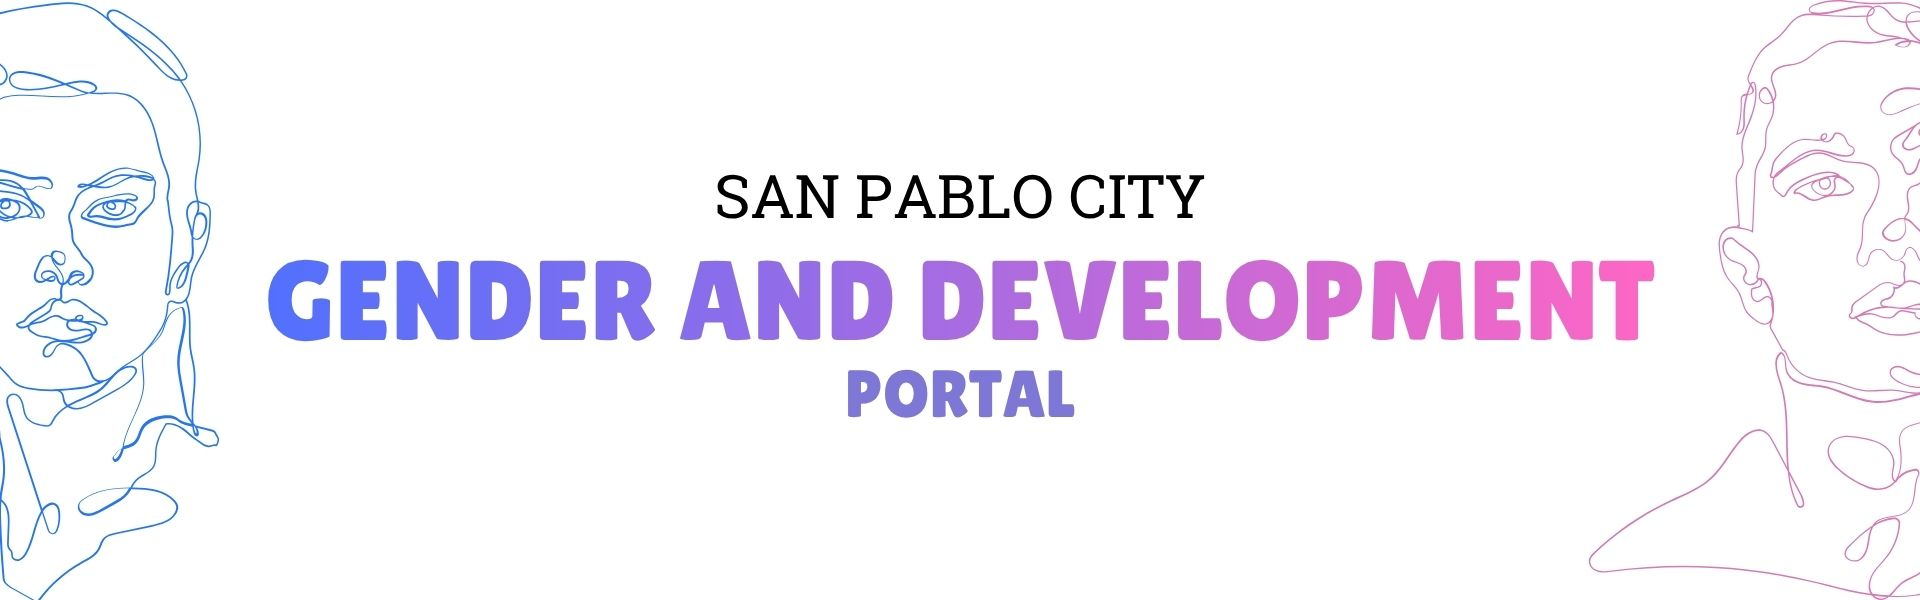
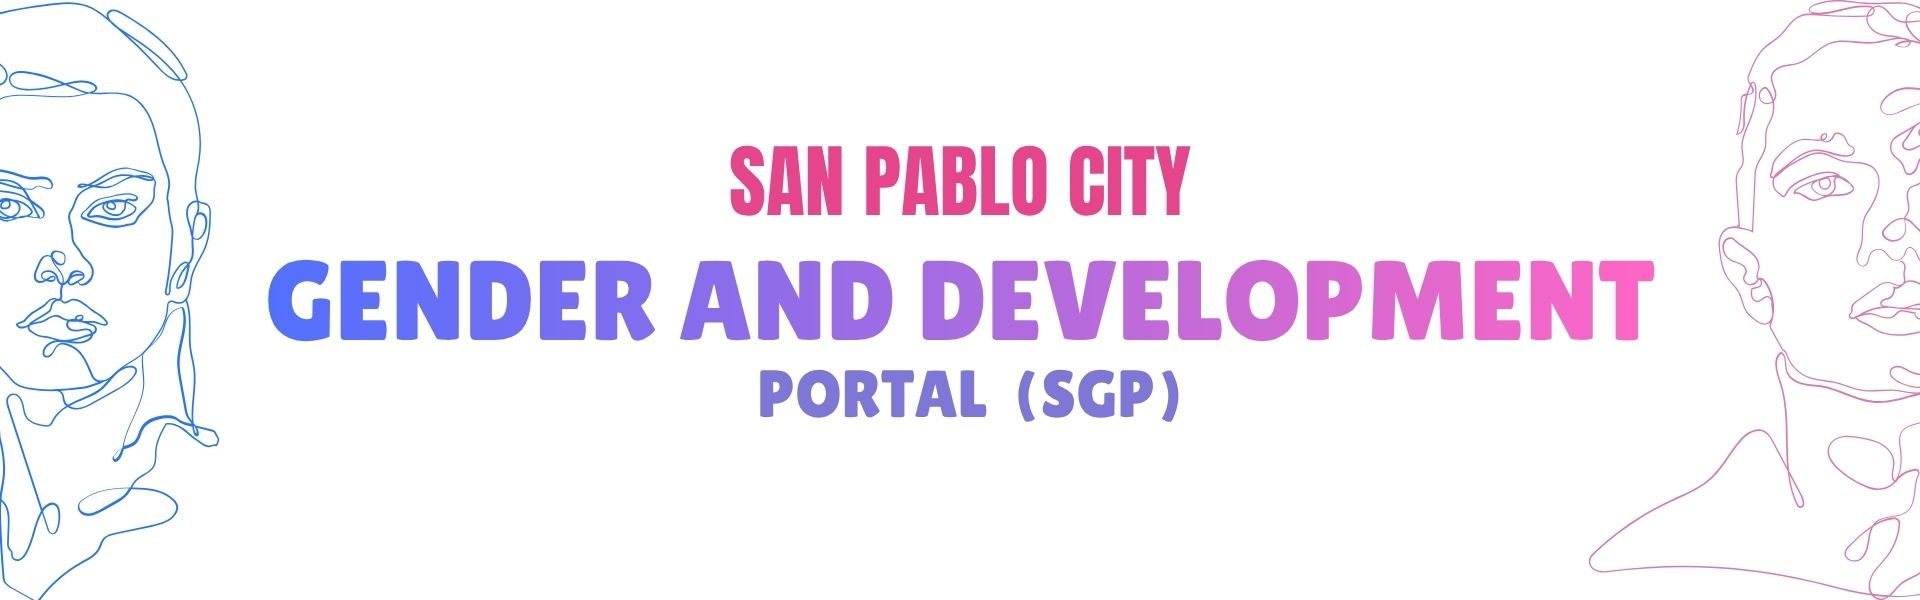
update nov12

Changed region(s): [[0.375, 0.24, 0.625, 0.36], [0.375, 0.6, 0.625, 0.72]]

diff --git a/src/App.jsx b/src/App.jsx
@@ -48,11 +48,28 @@ function App() {
       <div id="about" className="pt-10">
         {/* <!-- GENDER AND DEVELOPMENT w/ about us --> */}
         <div>
-          <h2 className="text-4xl font-bold text-center">
+          {/* <h2 className="text-4xl font-bold text-center">
             GENDER AND DEVELOPMENT
-          </h2>
+          </h2> */}
+          <div>
+            <span className="text-lg  text-gray-900 flex justify-center items-center">
+              {/* <hr className="md:w-40 text-purple-500" /> */}
+              <p className=" font-bold">SAN PABLO CITY</p>
+              {/* <hr className="md:w-40 text-purple-500" /> */}
+            </span>
+            <h2 className="text-4xl font-bold text-center">
+              GENDER AND DEVELOPMENT
+            </h2>
+          </div>
+          <span className="text-base  text-gray-800 flex justify-center items-center">
+            {/* <hr className="md:w-45 text-purple-500" /> */}
+            <p className="mx-1 font-bold">
+              Portal <span>(SGP)</span>{" "}
+            </p>
+            {/* <hr className="md:w-45 text-purple-500" /> */}
+          </span>
           <div className="text-center pt-4">
-            <h3 className="text-base text-[#7F77D8] font-bold">ABOUT US</h3>
+            <h3 className="text-xl text-[#7F77D8] font-bold">ABOUT US</h3>
             <p className="text-gray-600 mx-10 md:mx-90">
               As for the Executive 2025—Reconstitution of the Gender and
               Development (GAD) of the City of San Pablo
@@ -64,10 +81,10 @@ function App() {
           {/* <!-- Mission Card --> */}
           <div className="bg-white hover:bg-purple-200 border border-gray-300 p-6 rounded-lg transition-all duration-300 cursor-pointer shadow-lg ml-4 my-4 md:m-5">
             <div className="flex flex-col items-center space-x-4">
-              <div className="bg-purple-50 p-4 rounded-full">
+              <div className="bg-white p-4 rounded-full border border-purple-400 shadow-md filter drop-shadow-[0_0_0.25rem_#7F77D8]">
                 {/* <!-- Mission Icon --> */}
                 <svg
-                  className="w-6 h-6 text-purple-600"
+                  className="w-6 h-6 text-purple-600 "
                   fill="none"
                   stroke="currentColor"
                   viewBox="0 0 24 24"
@@ -101,7 +118,7 @@ function App() {
           {/* <!-- Vision Card --> */}
           <div className="bg-white hover:bg-purple-200 p-6 border border-gray-300 rounded-lg   transition-all duration-300 cursor-pointer shadow-lg m-4 md:m-5">
             <div className="flex flex-col items-center space-x-4">
-              <div className="bg-purple-50 p-4 rounded-full ml-2">
+              <div className="bg-white p-4 rounded-full border border-purple-400 shadow-md filter drop-shadow-[0_0_0.25rem_#7F77D8]">
                 {/* <!-- Vision Icon --> */}
                 <svg
                   xmlns="http://www.w3.org/2000/svg"
@@ -217,7 +234,7 @@ function App() {
         className="bg-blue-200 p-6 mb-5 rounded-lg shadow-lg m-4 md:mx-10"
       >
         <div className="flex flex-col items-center space-x-4">
-          <div className="bg-blue-50 p-4 rounded-full">
+          <div className="bg-white p-4 rounded-full border border-blue-400 shadow-md filter drop-shadow-[0_0_0.25rem_#2575fc]">
             <svg
               xmlns="http://www.w3.org/2000/svg"
               fill="none"
@@ -238,15 +255,15 @@ function App() {
               DEFINITION OF TERMS
             </h1>
             <span className="text-gray-600 text-justify">
-              Gender and Development (GAD) – Refers to the development
-              perspective and process....
+              <span className="font-bold">"SGP"</span> also known as the San
+              Pablo City Gender and Development (GAD) Portal
             </span>
 
             <div className="mt-2 flex justify-center">
               {/* Trigger SEE MORE Button */}
               <button
                 onClick={toggleModal}
-                className="border border-[#2575fc] flex items-center gap-2 text-[#2575fc] hover:text-white text-base font-medium bg-white hover:bg-blue-300 transition-all duration-300 shadow-xl  px-15 md:px-25 py-2 rounded-md cursor-pointer"
+                className="border border-[#2575fc] flex items-center gap-2 text-[#2575fc] hover:text-white text-base font-medium bg-white hover:bg-blue-300 transition-all duration-300 border-blue-600 shadow-md shadow-blue-600 px-15 md:px-25 py-2 rounded-md cursor-pointer"
               >
                 See More
               </button>
@@ -273,6 +290,10 @@ function App() {
 
             {/* Content */}
             <div className="p-6 space-y-4 text-gray-800 leading-relaxed">
+              <p className="text-gray-900 text-justify text-2xl">
+                <span className="font-bold text-[#2575fc]">"SGP"</span> also
+                known as the San Pablo City Gender and Development (GAD) Portal
+              </p>
               <p>
                 <span className="font-semibold text-lg text-[#2575fc]">
                   Gender and Development (GAD)
@@ -282,6 +303,7 @@ function App() {
                 violence, respectful of human rights, supportive of
                 self-determination and actualization of human potential.
               </p>
+
               <p>
                 <span className="font-semibold text-lg text-[#2575fc]">
                   Gender Analysis
@@ -476,7 +498,7 @@ function App() {
       </button>
 
       {/* FOOTER */}
-      <footer className="bg-gradient-to-l from-[#DA78B5] to-[#2575fc] text-white">
+      <footer className="bg-gradient-to-l from-[#DA78B5] to-[#2575fc] text-white ">
         <div className="flex flex-col items-center justify-center text-sm p-4">
           <span className="text-center">
             © 2025

diff --git a/src/components/journal/PublicTable.jsx b/src/components/journal/PublicTable.jsx
@@ -15,52 +15,54 @@ export default function PublicTable({ journalData, isBarangay = false }) {
   });
 
   return (
-    <div className="bg-white rounded-xl shadow-md p-4 mt-6 relative overflow-y-auto max-h-[60vh]">
-      <div className="flex justify-between items-center mb-4">
-        <h2 className="text-xl font-semibold text-gray-800">Journal Data</h2>
-        <div className="flex space-x-2">
-          <button
-            onClick={handlePrint}
-            className="bg-yellow-600 hover:bg-yellow-700 text-white px-4 py-2 rounded-md text-sm font-medium shadow-sm"
-          >
-            Print / Save as PDF
-          </button>
+    <div className="p-1 shadow-md border border-gray-200  rounded-xl ">
+      <div className="bg-white p-4 mt-6 relative overflow-y-auto max-h-[60vh]">
+        <div className="flex justify-between items-center mb-4">
+          <h2 className="text-xl font-semibold text-gray-800">Journal Data</h2>
+          <div className="flex space-x-2">
+            <button
+              onClick={handlePrint}
+              className="bg-yellow-600 hover:bg-yellow-700 text-white px-4 py-2 rounded-md text-sm font-medium shadow-sm"
+            >
+              Print / Save as PDF
+            </button>
+          </div>
         </div>
-      </div>
 
-      {/* 👇 Attach ref here */}
-      <div ref={tableRef}>
-        <table className="min-w-full border border-gray-300 rounded-lg">
-          <thead className="bg-[#13B27F] text-white">
-            <tr>
-              <th className="px-4 py-2 text-left">Year</th>
-              <th className="px-4 py-2 text-left">
-                {isBarangay ? "Barangay" : "Sector"}
-              </th>
-              {!isBarangay && (
-                <th className="px-4 py-2 text-left">Sub Sector</th>
-              )}
-              <th className="px-4 py-2 text-left">Data Requirement</th>
-              <th className="px-4 py-2 text-center">Population</th>
-              <th className="px-4 py-2 text-center">Male</th>
-              <th className="px-4 py-2 text-center">Female</th>
-              <th className="px-4 py-2 text-left">Source</th>
-              <th className="px-4 py-2 text-left">Remarks</th>
-              {/* <th className="px-4 py-2 text-left hide-on-print">
+        {/* 👇 Attach ref here */}
+        <div ref={tableRef}>
+          <table className="min-w-full border border-gray-300 rounded-lg">
+            <thead className="bg-[#13B27F] text-white">
+              <tr>
+                <th className="px-4 py-2 text-left">Year</th>
+                <th className="px-4 py-2 text-left">
+                  {isBarangay ? "Barangay" : "Sector"}
+                </th>
+                {!isBarangay && (
+                  <th className="px-4 py-2 text-left">Sub Sector</th>
+                )}
+                <th className="px-4 py-2 text-left">Data Requirement</th>
+                <th className="px-4 py-2 text-center">Population</th>
+                <th className="px-4 py-2 text-center">Male</th>
+                <th className="px-4 py-2 text-center">Female</th>
+                <th className="px-4 py-2 text-left">Source</th>
+                <th className="px-4 py-2 text-left">Remarks</th>
+                {/* <th className="px-4 py-2 text-left hide-on-print">
                                 Created By
                             </th> */}
-            </tr>
-          </thead>
-          <tbody>
-            {groupedData.map((entry) => (
-              <JournalTableRow
-                key={entry.id}
-                entry={entry}
-                isBarangay={isBarangay}
-              />
-            ))}
-          </tbody>
-        </table>
+              </tr>
+            </thead>
+            <tbody>
+              {groupedData.map((entry) => (
+                <JournalTableRow
+                  key={entry.id}
+                  entry={entry}
+                  isBarangay={isBarangay}
+                />
+              ))}
+            </tbody>
+          </table>
+        </div>
       </div>
     </div>
   );

diff --git a/src/components/Header.jsx b/src/components/Header.jsx
@@ -72,17 +72,19 @@ export default function Header() {
               <img
                 src="logo-SPC-est.png"
                 alt="San Pablo Logo"
-                className="size-18 md:size-15 object-contain rounded-full"
+                className="size-15 object-contain rounded-full"
               />
 
               <div className="cursor-pointer">
                 <h1 className="md:ml-2 text-2xl font-bold tracking-widest text-center font-mono">
-                  GENDER AND DEVELOPMENT
+                  SPC GAD Portal
                 </h1>
                 <span className="text-sm italic text-gray-300 flex justify-center items-center">
-                  <hr className="md:w-15 text-white" />
-                  <p className="mx-1">City Government of San Pablo</p>
-                  <hr className="md:w-15 text-white" />
+                  <hr className="md:w-12 text-white" />
+                  <p className="mx-1 text-center">
+                    City Government of San Pablo
+                  </p>
+                  <hr className="md:w-12 text-white" />
                 </span>
               </div>
             </div>
@@ -201,7 +203,6 @@ export default function Header() {
               >
                 DEFINITION OF TERMS
               </a>
-
               {/* <Link
                 to="/database"
                 className="hover:bg-[#DA78B5] rounded transition-all duration-300"
@@ -210,8 +211,10 @@ export default function Header() {
                 DATABASE
               </Link> */}
 
+
+              {/* DATABASE Dropdown */}
               <div className="relative">
-                <button onClick={toggleDropdown} className="w-full ">
+                <button onClick={toggleDropdown} className="w-full">
                   <div className="hover:bg-[#DA78B5] rounded transition-all duration-300 flex justify-center items-center">
                     DATABASE
                     <svg
@@ -235,7 +238,7 @@ export default function Header() {
 
                 {isDropdownOpen && (
                   <div className="flex justify-center">
-                    <div className="absolute z-[9999] w-[350px] rounded-md bg-white p-2 text-black shadow-md mt-1">
+                    <div className="absolute z-[9999] w-[350px] sm:w-full rounded-md bg-white p-2 text-black shadow-md mt-1">
                       <ul>
                         <li>
                           <Link

diff --git a/src/components/documents/PublicDocumentTable.jsx b/src/components/documents/PublicDocumentTable.jsx
@@ -55,7 +55,7 @@ export default function PublicDocumentTable({
   }, [documents, selectedSector, selectedSubsector, selectedGender, keyword]);
 
   return (
-    <div className="overflow-x-auto bg-white rounded-xl shadow-md p-4 mt-6">
+    <div className="overflow-x-auto border border-gray-200 rounded-xl shadow-md p-4 mt-6 ">
       <Toaster position="top-right" />
       <div className="flex justify-between items-center mb-4">
         <h2 className="text-xl font-semibold text-gray-800">
@@ -77,8 +77,8 @@ export default function PublicDocumentTable({
               <th className="px-4 py-2 text-left">Sub Sector</th>
               <th className="px-4 py-2 text-left">Gender</th>
               <th className="px-4 py-2 text-center">Author</th>
-              {/* <th className="px-4 py-2 text-center">Private</th>
-              <th className="px-4 py-2 text-center">Action</th> */}
+              <th className="px-4 py-2 text-center">Private</th>
+              {/* <th className="px-4 py-2 text-center">Action</th> */}
             </tr>
           </thead>
           <tbody>
@@ -112,7 +112,7 @@ function PublicDocumentTableRow({ entry }) {
       </td>
       {/* <td className="border border-gray-200 px-4 py-2 text-center">
         {entry.private_status ? "✅" : "❌"}
-      </td>
+      </td> */}
       <td className="border border-gray-200 px-4 py-2 text-center relative">
         <button
           onClick={toggleDropdown}
@@ -132,7 +132,7 @@ function PublicDocumentTableRow({ entry }) {
             </a>
           </div>
         )}
-      </td> */}
+      </td>
     </tr>
   );
 }

diff --git a/src/pages/PublicBrgyJournal.jsx b/src/pages/PublicBrgyJournal.jsx
@@ -118,7 +118,7 @@ export default function PublicBrgyJournal() {
       <Toaster position="top-right" richColors />
       {/* NEW: Wrapper for scrollable content (title + filters + table). Adjust height as needed. */}
       <div
-        className="max-h-screen"
+        className="max-h-screen p-5"
         style={{ maxHeight: "80vh" }} // Adjust to fit your layout (e.g., 80vh for 80% of viewport height)
       >
         <div className="font-extrabold text-2xl text-gray-800 mb-3">
@@ -126,7 +126,7 @@ export default function PublicBrgyJournal() {
         </div>
         <hr className="border-t border-gray-400 w-full mb-4" />
 
-        <div className="grid grid-cols-1 gap-4 w-full sm:p-4 bg-white rounded-lg shadow-sm">
+        <div className="grid grid-cols-1 gap-4 w-full sm:p-4 rounded-lg ">
           <InputSection
             selectedBarangay={selectedBarangay}
             setSelectedBarangay={setSelectedBarangay}

diff --git a/src/pages/PublicJournal.jsx b/src/pages/PublicJournal.jsx
@@ -134,7 +134,7 @@ export default function PublicJournal() {
       <Toaster position="top-right" richColors />
       {/* NEW: Wrapper for scrollable content (title + filters + table). Adjust height as needed. */}
       <div
-        className="max-h-screen"
+        className="max-h-screen  p-5"
         style={{ maxHeight: "80vh" }} // Adjust to fit your layout (e.g., 80vh for 80% of viewport height)
       >
         <div className="font-extrabold text-2xl text-gray-800 mb-3">
@@ -142,7 +142,7 @@ export default function PublicJournal() {
         </div>
         <hr className="border-t border-gray-400 w-full mb-4" />
 
-        <div className="grid grid-cols-1 gap-4 w-full sm:p-4 bg-white rounded-lg shadow-sm">
+        <div className="grid grid-cols-1 gap-4 w-full sm:p-4 rounded-lg">
           <InputSection
             selectedSector={selectedSector}
             setSelectedSector={setSelectedSector}

diff --git a/src/pages/PublicDocuments.jsx b/src/pages/PublicDocuments.jsx
@@ -42,13 +42,13 @@ export default function PublicDocuments() {
   };
 
   return (
-    <>
+    <div className="p-5">
       <div className="font-extrabold text-2xl text-gray-800 mb-3">
         Documents
       </div>
       <hr className="border-t border-gray-400 w-full mb-4" />
 
-      <div className="grid grid-cols-1 gap-4 w-full sm:p-4 bg-white rounded-lg shadow-sm">
+      <div className="grid grid-cols-1 gap-4 w-full sm:p-4 bg-white">
         <InputSection
           selectedSector={selectedSector}
           setSelectedSector={setSelectedSector}
@@ -69,7 +69,7 @@ export default function PublicDocuments() {
           keyword={keyword}
         />
       </div>
-    </>
+    </div>
   );
 }
 
